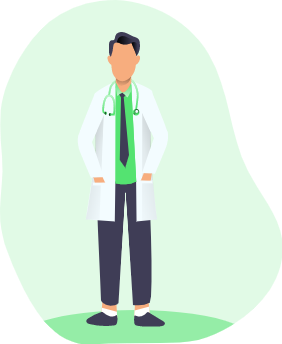
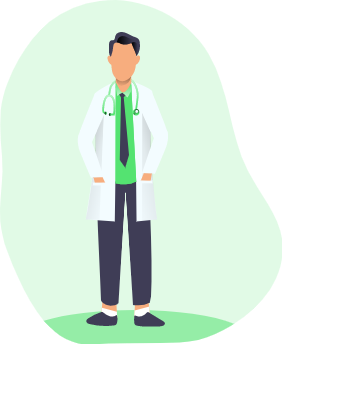
File update

diff --git a/css/style.css b/css/style.css
@@ -349,8 +349,8 @@ html,body{
 
 .med_3 img{
 	margin: 150px 100px 0 0;
-	width: 500px;
-	height: 500px;
+	width: 100%;
+	height: auto;
 }
 
 .p_color{
@@ -1398,6 +1398,109 @@ html,body{
 	.cb img, .cg img{
 		width: 100%;
 		height: auto;
+	}
+}
+
+@media only screen and (max-width: 768px) and (min-width: 426px){
+	.navbar-brand{
+		padding-left: 70px;
+	}
+
+	.navbar-light .navbar-toggler{
+		margin-right: 70px;
+	}
+
+	.navbar-nav{
+		padding-left: 0;
+	}
+
+	.nav-item{
+		display: block;
+		margin-right: auto;
+		margin-left: auto;
+	}
+
+	.navbar-nav .dropdown-menu{
+		margin: 0;
+		border-top: 2px dotted lightgrey;
+		border-bottom: 2px dotted lightgrey;
+	}
+
+	.txt_abt{
+		margin-top: 20%;
+	}
+
+	.txt_abt h1{
+		padding-top: 20px;
+		font-size: 3em;
+	}
+
+	.txt_abt .btn{
+		margin-top: 50px;
+	}
+
+	.cv img{
+		width: 60px;
+		height: 60px;
+	}
+
+	.cv p{
+		line-height: 1.5;
+	}
+
+	.cv .btn{
+		padding: 5px 8px;
+		font-size: 18px;
+	}
+
+	.btn_a{
+		left: unset;
+		bottom: -40px;
+	}
+
+	.pn img{
+		width: 130px;
+		height: 130px;
+	}
+
+	.pn .box{
+		margin-right: 20px;
+	}
+
+	.ft-li li{
+		width: 38px;
+	}
+
+	/*........Medical Cover......*/
+	.med h2{
+		font-size: 40px;
+		padding-top: 50px;
+	}
+
+	.med p{
+		padding-bottom: 0;
+	}
+
+	.inline_btn{
+		padding: 10px;
+		margin-bottom: 5px;
+	}
+
+	.med_1 p{
+		padding: 5px 100px 30px 100px;
+	}
+
+	.med_2 img{
+		margin-left: 30px;
+		margin-top: 300px;
+	}
+
+	.med_3 img{
+		margin-top: 250px; 
+	}
+
+	.med_4 h1{
+
 	}
 }
 

diff --git a/index.html b/index.html
@@ -22,14 +22,14 @@
 <body>
 
 <!-- Preloader -->
-<section>
+<!-- <section>
   <div class="loader-wrapper">
     <div class="loader"></div>
     
     <div class="loader-section section-left"></div>
     <div class="loader-section section-right"></div>
   </div>
-</section>
+</section> -->
 
 <!-- Navbar -->
 
